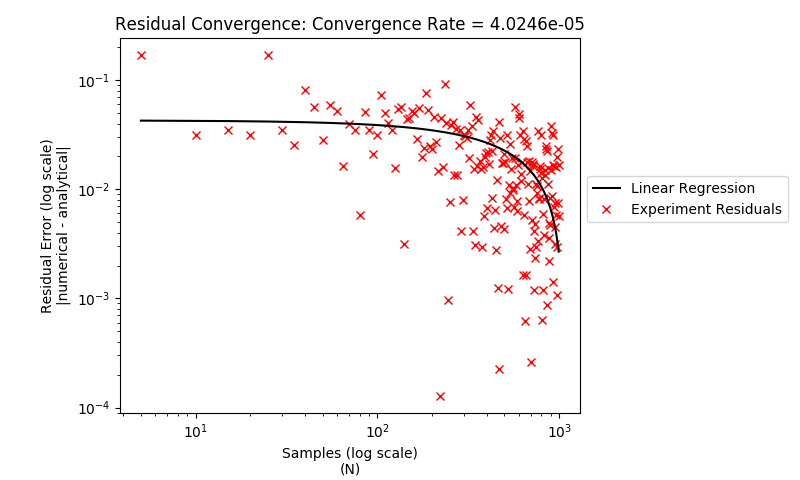
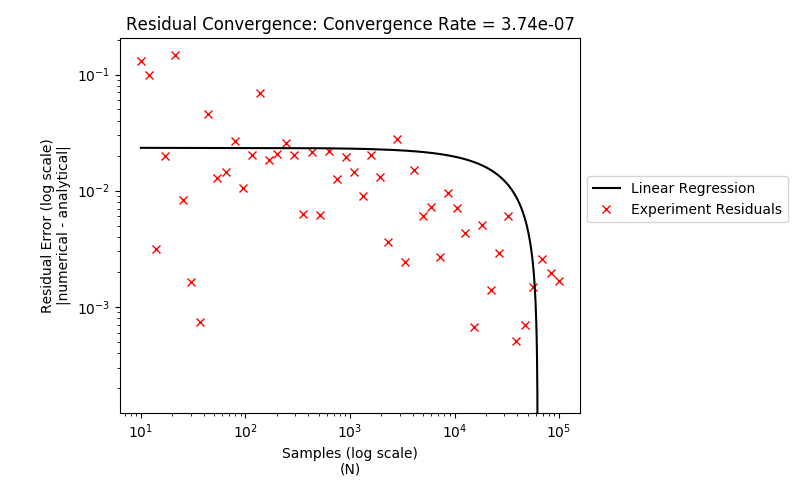
Renamed output plot with different number of points

diff --git a/homework_1/assignment_1.py b/homework_1/assignment_1.py
@@ -153,7 +153,8 @@ if __name__ == "__main__":
     results = pd.DataFrame(
         pool.map(
             process_sample_size,
-            [5 * i for i in range(201) if i]  # [200 * i for i in range(201) if i]
+            [int(x) for x in np.logspace(1,5)]
+            # [5 * i for i in range(1001) if i]  # [200 * i for i in range(201) if i]
         )
     )
 
@@ -207,4 +208,4 @@ if __name__ == "__main__":
     )
 
     # Save figure
-    fig.savefig(output_dir / 'convergence_plot.png')
+    fig.savefig(output_dir / 'Q1_convergence_plot.png')
